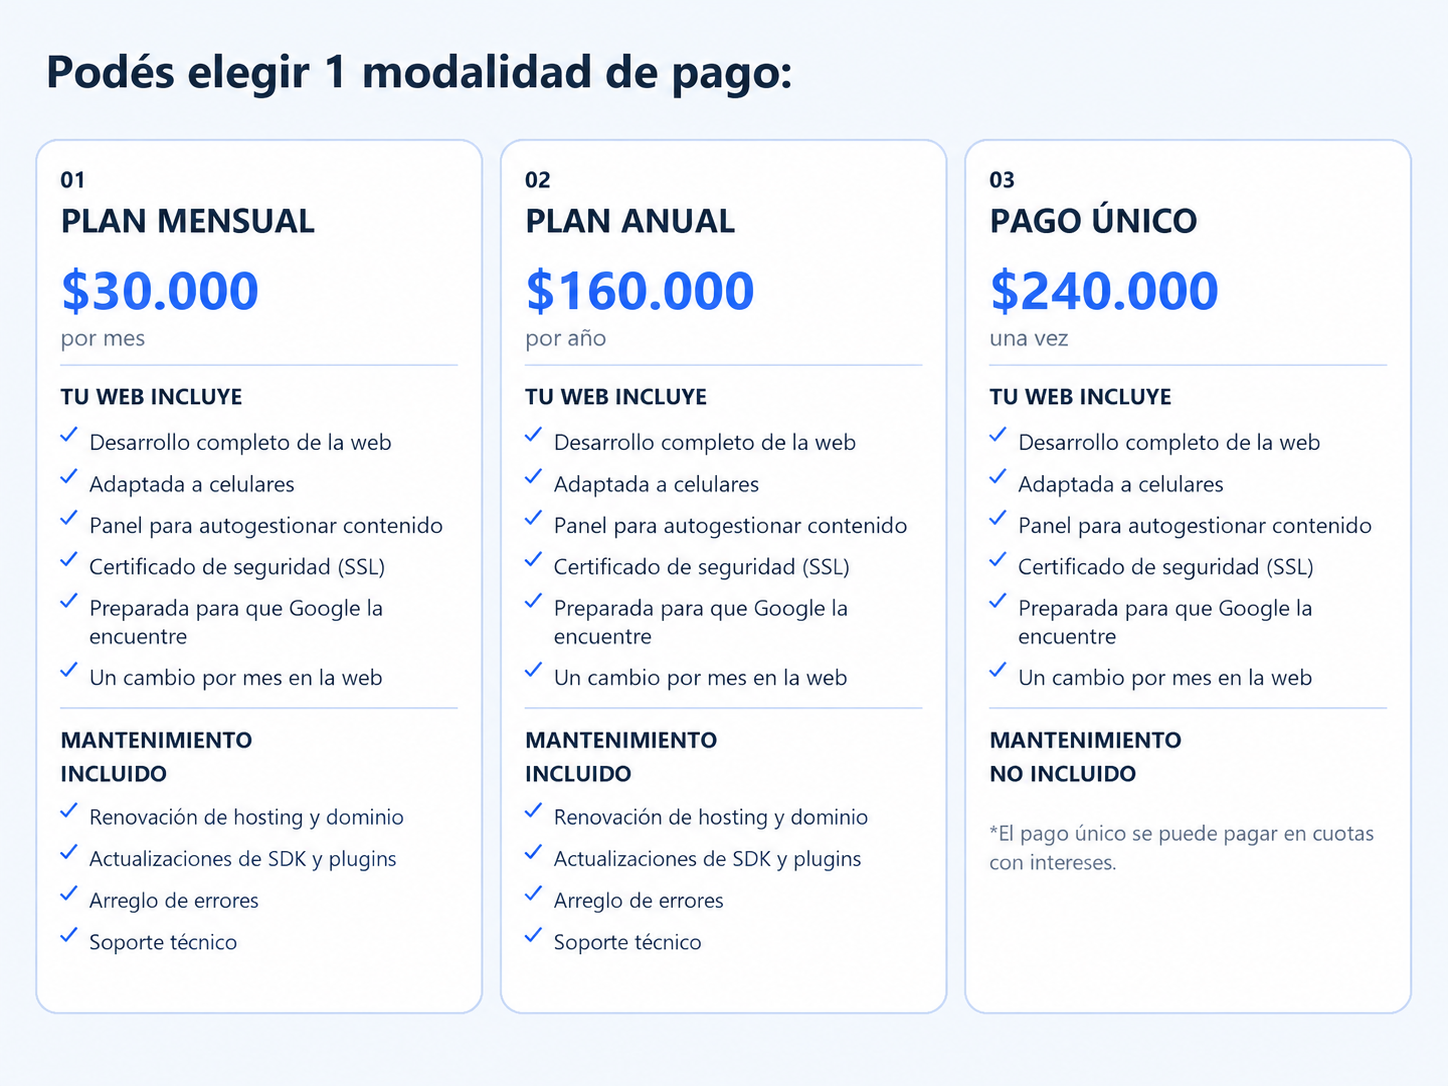
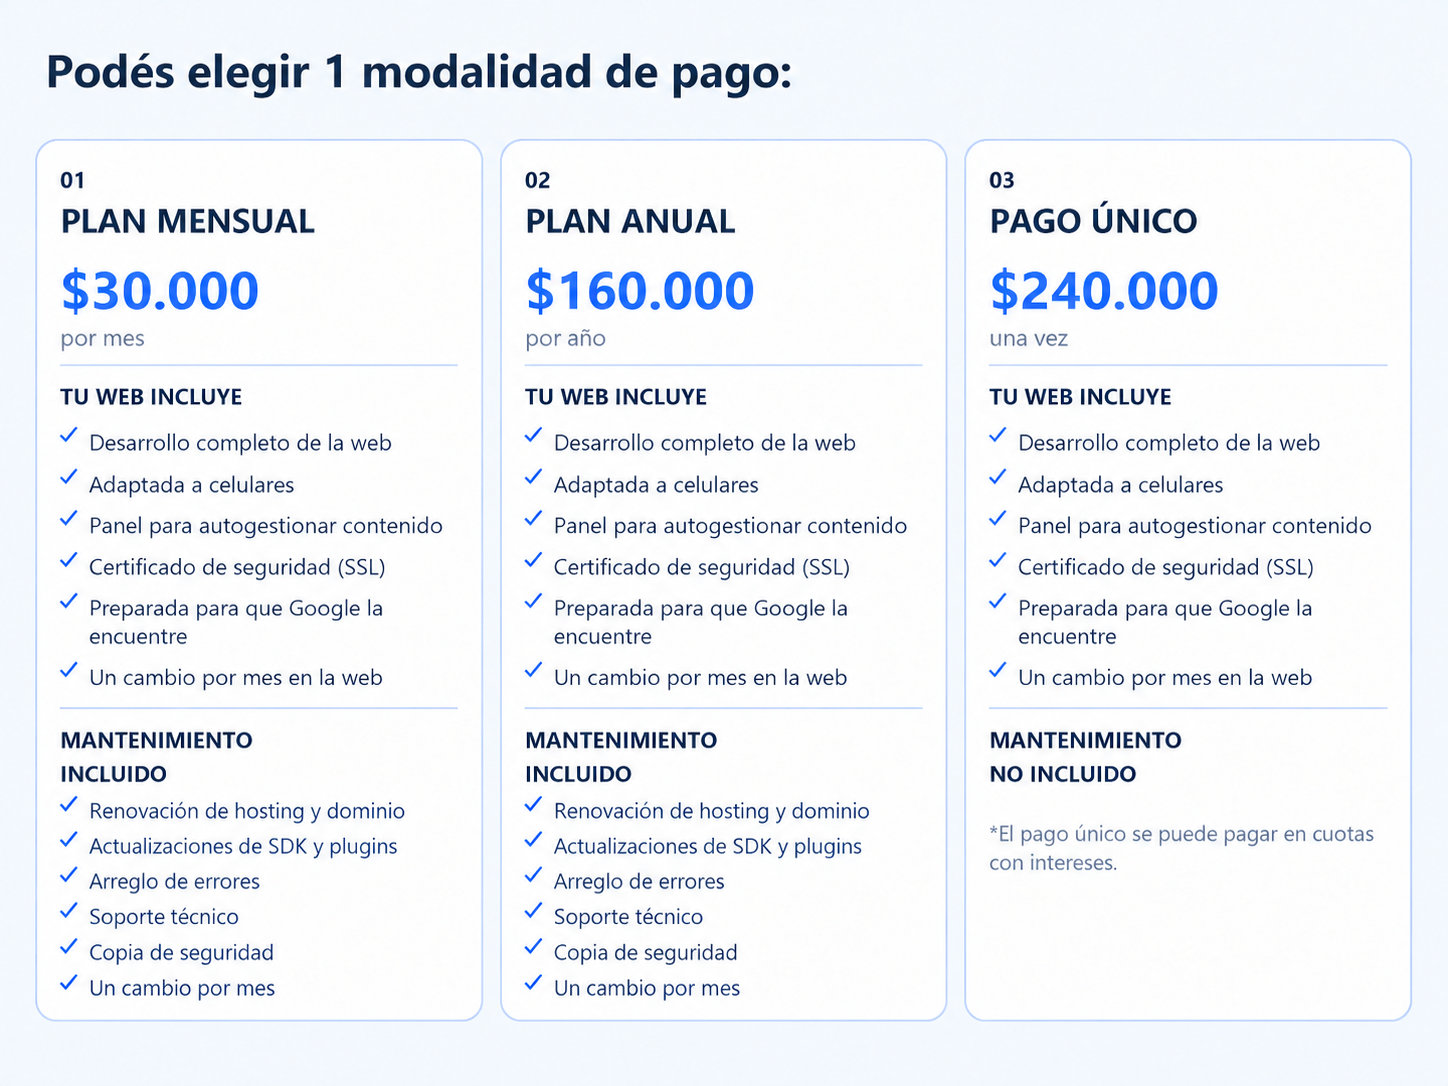
wabot: plan mensual de $40.000 para tienda/cursos/inmobiliaria
Nueva página /pago/mensual40/ con el link real de Mercado Pago
(https://mpago.la/2GhZD56), botón "Plan $40.000" en el panel (reemplaza al
de $30.000, ya sin vigencia) y su respuesta rápida correspondiente, con una
migración para actualizar la que Pablo ya tenga guardada. También corrige
mantenimiento_planes en textos.php, que se había quedado en los montos
viejos ($20.000/$30.000) tras el test de precios.

De paso, dos imágenes de modalidades (sitio profesional y tienda online)
llegaron actualizadas de Pablo con "Copia de seguridad" y "Un cambio por
mes" sumados al mantenimiento incluido, y quedan corregidas dos pruebas que
todavía esperaban las imágenes viejas por tipo en vez de la compartida.

diff --git a/pago/mensual40/index.html b/pago/mensual40/index.html
@@ -1,0 +1,84 @@
+<!DOCTYPE html>
+<html lang="es">
+<head>
+    <meta charset="UTF-8">
+    <meta name="viewport" content="width=device-width, initial-scale=1.0">
+    <meta name="robots" content="noindex, nofollow">
+    <title>Plan mensual de tienda online, cursos e inmobiliaria | GokyWebs</title>
+    <meta name="description" content="Tu tienda online, plataforma de cursos o inmobiliaria a medida, con hosting, dominio, soporte, mantenimiento técnico y un cambio por mes incluido, por $40.000 al mes.">
+    <link rel="icon" type="image/png" href="../../logo.png">
+    <link rel="preconnect" href="https://fonts.googleapis.com">
+    <link rel="preconnect" href="https://fonts.gstatic.com" crossorigin>
+    <link href="https://fonts.googleapis.com/css2?family=Inter:wght@400;500;600;700;800&display=swap" rel="stylesheet">
+    <link rel="stylesheet" href="../plan-card.css?v=20260925">
+</head>
+<body>
+    <header class="header">
+        <a class="brand" href="../../index.html">
+            <img src="../../logo.png" alt="GokyWebs">
+            <span>GokyWebs</span>
+        </a>
+        <a class="back-link" href="../../index.html">Volver al inicio</a>
+    </header>
+
+    <main>
+        <div class="plan-card">
+            <span class="plan-eyebrow">Plan mensual</span>
+            <h1 class="plan-title">Tienda online, cursos e inmobiliaria</h1>
+
+            <div class="plan-price-row">
+                <strong class="plan-price">$40.000</strong>
+                <span class="plan-period">por mes</span>
+            </div>
+
+            <section class="plan-section">
+                <h2>Tu web incluye</h2>
+                <ul class="plan-check-list">
+                    <li>Desarrollo completo de la web, a medida</li>
+                    <li>Panel para editar vos mismo los textos y las imágenes</li>
+                    <li>Carga de hasta 10 productos</li>
+                    <li>Adaptada a celular, tablet y computadora</li>
+                    <li>Preparada para que Google la encuentre</li>
+                    <li>Certificado de seguridad (SSL)</li>
+                    <li>Hosting y dominio .com.ar incluidos</li>
+                    <li>Un cambio por mes en la web</li>
+                </ul>
+            </section>
+
+            <section class="plan-section">
+                <h2>Mantenimiento incluido</h2>
+                <ul class="plan-check-list">
+                    <li>Actualizaciones de plugins, SDKs e integraciones</li>
+                    <li>Corrección de errores</li>
+                    <li>Compatibilidad con servicios de terceros</li>
+                    <li>Copias de seguridad periódicas</li>
+                    <li>Soporte técnico por WhatsApp</li>
+                </ul>
+            </section>
+
+            <div class="plan-cta">
+                <a class="subscribe-btn" href="https://mpago.la/2GhZD56" target="_blank" rel="noopener noreferrer">Suscribirme por $40.000 por mes</a>
+                <p class="mp-note">El pago se procesa de forma segura a través de Mercado Pago.</p>
+            </div>
+
+            <section class="plan-section">
+                <h2>Condiciones de la suscripción</h2>
+                <ul class="plan-check-list">
+                    <li>Sin pago inicial: arrancamos con el primer débito</li>
+                    <li>Débito automático mensual por Mercado Pago</li>
+                    <li>Cancelás cuando quieras, sin permanencia</li>
+                    <li>La web permanece publicada mientras el plan esté activo</li>
+                    <li>La mensualidad se actualiza una vez al año</li>
+                    <li>Pasados los 18 meses de plan activo, podés pedir la titularidad del código fuente</li>
+                </ul>
+            </section>
+
+            <p class="plan-note"><strong>Adicionales:</strong> $500 por producto adicional a los 10 incluidos, cuando lo cargamos nosotros (desde tu panel lo cargás vos sin costo). Un cambio extra al incluido cada mes y un rediseño completo también se cotizan aparte.</p>
+        </div>
+    </main>
+
+    <p class="support">Si tenés alguna duda, <a href="https://wa.me/5491125068578?text=Hola%20GokyWebs%2C%20tengo%20una%20consulta%20sobre%20el%20plan%20mensual%20de%20tienda%20online%2C%20cursos%20e%20inmobiliaria." target="_blank" rel="noopener noreferrer">escribinos por WhatsApp</a>.</p>
+
+    <footer class="footer">© 2026 GokyWebs · Plan mensual de tienda online, cursos e inmobiliaria</footer>
+</body>
+</html>

diff --git a/wabot/respuestas-rapidas.php b/wabot/respuestas-rapidas.php
@@ -35,7 +35,7 @@ function wabot_respuestas_rapidas_default() {
         ['ico' => '💳', 'titulo' => 'Pagos', 'items' => [
             "Te paso los datos para la seña. En cuanto se acredite arrancamos con el desarrollo:\n\nEDITAR DATOS DE PAGO",
             'Te mando el link de Mercado Pago para activar el plan mensual del sitio profesional ($20.000 por mes). Una vez realizado el pago queda activo el servicio: gokywebs.com/pago/mensual20',
-            'Te mando el link de Mercado Pago para activar el plan mensual de la tienda, los cursos o la inmobiliaria ($30.000 por mes). Una vez realizado el pago queda activo el servicio: gokywebs.com/pago/mensual30',
+            'Te mando el link de Mercado Pago para activar el plan mensual de la tienda, los cursos o la inmobiliaria ($40.000 por mes). Una vez realizado el pago queda activo el servicio: gokywebs.com/pago/mensual40',
             'Sí, podés pagar con tarjeta. Te paso el link de Mercado Pago y ahí elegís las cuotas.',
             '¡Recibido! Ya arrancamos con tu web. En unos días te muestro los primeros avances.',
             'La web ya está lista para publicarse. Antes de subirla queda abonar el saldo restante de EDITAR IMPORTE. Una vez acreditado el pago la dejamos online y funcionando.',
@@ -388,6 +388,27 @@ function wabot_respuestas_rapidas_links_mensuales_25sep($categorias) {
     return $categorias;
 }
 
+/**
+ * Test de precios (26-sep): tienda/cursos/inmobiliaria pasa de $30.000 a
+ * $40.000 por mes, con una página de suscripción nueva. Reemplaza por texto
+ * exacto, igual que wabot_respuestas_rapidas_links_mensuales_25sep; lo que
+ * Pablo haya editado a mano no se toca.
+ */
+function wabot_respuestas_rapidas_plan_otros_40k_26sep($categorias) {
+    $viejo = 'Te mando el link de Mercado Pago para activar el plan mensual de la tienda, los cursos o la inmobiliaria ($30.000 por mes). Una vez realizado el pago queda activo el servicio: gokywebs.com/pago/mensual30';
+    $nuevo = 'Te mando el link de Mercado Pago para activar el plan mensual de la tienda, los cursos o la inmobiliaria ($40.000 por mes). Una vez realizado el pago queda activo el servicio: gokywebs.com/pago/mensual40';
+    foreach ($categorias as &$categoria) {
+        if (mb_strtolower(trim((string)($categoria['titulo'] ?? ''))) !== 'pagos') continue;
+        $items = [];
+        foreach ((array)($categoria['items'] ?? []) as $texto) {
+            $items[] = (string)$texto === $viejo ? $nuevo : $texto;
+        }
+        $categoria['items'] = array_values(array_unique($items));
+    }
+    unset($categoria);
+    return $categorias;
+}
+
 function wabot_respuestas_rapidas_load() {
     wabot_ensure_dirs();
     $ruta = WABOT_DATA . '/respuestas-rapidas.json';
@@ -395,11 +416,11 @@ function wabot_respuestas_rapidas_load() {
     $leido = json_decode((string)@file_get_contents($ruta), true);
     $normalizado = wabot_respuestas_rapidas_normalizar($leido);
     if ($normalizado === null) return wabot_respuestas_rapidas_default();
-    $migrado = wabot_respuestas_rapidas_links_mensuales_25sep(wabot_respuestas_rapidas_precios_al_dia(wabot_respuestas_rapidas_textos_21sep(
+    $migrado = wabot_respuestas_rapidas_plan_otros_40k_26sep(wabot_respuestas_rapidas_links_mensuales_25sep(wabot_respuestas_rapidas_precios_al_dia(wabot_respuestas_rapidas_textos_21sep(
         wabot_respuestas_rapidas_planes_19sep(
             wabot_respuestas_rapidas_completar_precios(wabot_respuestas_rapidas_migrar_legacy($normalizado))
         )
-    )));
+    ))));
     if ($migrado !== $normalizado) {
         $json = json_encode($migrado, JSON_UNESCAPED_UNICODE | JSON_PRETTY_PRINT);
         if (is_string($json)) wabot_json_guardar_atomico($ruta, $json);

diff --git a/wabot/admin.php b/wabot/admin.php
@@ -2197,11 +2197,12 @@ function burbujaCita(t, chat) {
                         <?php /* El formulario con el código de ESTA charla, para mandarlo a mano (21-sep). */ ?>
                         <button type="button" class="sec form-copiar" data-tel="<?= $e($convClave) ?>"
                             title="Copia el link del formulario con el código de esta conversación, para mandárselo vos">Copiar form</button>
-                        <?php /* Los dos links de pago del plan mensual, listos para mandar (25-sep). */ ?>
+                        <?php /* Los dos links de pago del plan mensual, listos para mandar (25-sep;
+                               tienda/cursos/inmobiliaria pasó a $40.000 el 26-sep con el test de precios). */ ?>
                         <button type="button" class="sec" id="btnPlan20"
                             title="Escribe el mensaje con el link de pago del plan mensual del sitio profesional">Plan $20.000</button>
-                        <button type="button" class="sec" id="btnPlan30"
-                            title="Escribe el mensaje con el link de pago del plan mensual de tienda, cursos e inmobiliaria">Plan $30.000</button>
+                        <button type="button" class="sec" id="btnPlan40"
+                            title="Escribe el mensaje con el link de pago del plan mensual de tienda, cursos e inmobiliaria">Plan $40.000</button>
                         <?php if ((int)$conv['pausado_hasta'] > time()): ?>
                         <form method="post"><input type="hidden" name="accion" value="conv_reanudar"><input type="hidden" name="tel" value="<?= $e($convClave) ?>">
                             <button class="sec">Reanudar bot</button></form>
@@ -2981,14 +2982,14 @@ function burbujaCita(t, chat) {
             txt.setSelectionRange(cursor, cursor);
         }
 
-        /* Los dos botones de "Plan $20.000" / "Plan $30.000" del encabezado:
+        /* Los dos botones de "Plan $20.000" / "Plan $40.000" del encabezado:
          * escriben directo el mensaje con el link de pago, sin pasar por el
          * buscador de respuestas rápidas. */
         document.getElementById('btnPlan20')?.addEventListener('click', () => {
             rrInsertar('Te mando el link de Mercado Pago para activar el plan mensual del sitio profesional ($20.000 por mes). Una vez realizado el pago queda activo el servicio: gokywebs.com/pago/mensual20');
         });
-        document.getElementById('btnPlan30')?.addEventListener('click', () => {
-            rrInsertar('Te mando el link de Mercado Pago para activar el plan mensual de la tienda, los cursos o la inmobiliaria ($30.000 por mes). Una vez realizado el pago queda activo el servicio: gokywebs.com/pago/mensual30');
+        document.getElementById('btnPlan40')?.addEventListener('click', () => {
+            rrInsertar('Te mando el link de Mercado Pago para activar el plan mensual de la tienda, los cursos o la inmobiliaria ($40.000 por mes). Una vez realizado el pago queda activo el servicio: gokywebs.com/pago/mensual40');
         });
 
         function rrElegir(indice) {

diff --git a/wabot/test-precios.php b/wabot/test-precios.php
@@ -104,8 +104,8 @@ caso('pasa entero por el punto único de salida: propuesta, imagen y oferta',
 caso('y en ninguno de los dos aparece la línea vieja de "si te cierra"',
     preg_match('/si te cierra|si va por ah|si te gusta la idea/iu', implode(' ', $r)) === 0);
 
-foreach (['ecommerce' => ['una tienda online completa', 'tienda-online-tres-columnas-4x3.png'], 'inmobiliaria' => ['una web inmobiliaria completa', 'web-inmobiliaria-tres-columnas-4x3.png'],
-          'elearning' => ['una plataforma de cursos completa', 'plataforma-de-cursos-tres-columnas-4x3.png']] as $tipo => $par) {
+foreach (['ecommerce' => ['una tienda online completa', 'tienda-online-tres-columnas-4x3.png'], 'inmobiliaria' => ['una web inmobiliaria completa', 'tienda-online-tres-columnas-4x3.png'],
+          'elearning' => ['una plataforma de cursos completa', 'tienda-online-tres-columnas-4x3.png']] as $tipo => $par) {
     [$arranque, $archivo] = $par;
     $c = conv_nueva('5491177770003TEST');
     $r = wabot_pitch($tipo, $c, $cfg);

diff --git a/wabot/textos.php b/wabot/textos.php
@@ -250,13 +250,14 @@ function wabot_textos_default() {
         'web_propia' => "Si la querés en tu propio hosting, está el pago único{precio_web_propia}: es solo la página, y cuando abonás el total el código queda tuyo. No incluye hosting ni dominio, que corren por tu cuenta.\nSi querés, le sumás el mantenimiento por {mantenimiento_mes}: actualizaciones, corrección de errores y soporte.",
     ],
     'leer_imagenes' => true,
+    // Montos del test de precios (26-sep): antes $20.000 / $30.000.
     'mantenimiento_planes' => [
         'landing' => [
-            'precio' => '$20.000',
+            'precio' => '$30.000',
             'link' => 'gokywebs.com/planmensual/sitioprofesional',
         ],
         'otros' => [
-            'precio' => '$30.000',
+            'precio' => '$40.000',
             'link' => 'gokywebs.com/planmensual/tienda',
         ],
     ],

diff --git a/wabot/test-flujo-final.php b/wabot/test-flujo-final.php
@@ -123,8 +123,8 @@ caso('y con el sí, el formulario', tiene_form(turno('si', $ca, $cfg)));
 
 $esperados = [
     'landing' => ['un sitio profesional completo', 'sitio-profesional-tres-columnas-4x3.png'],
-    'inmobiliaria' => ['una web inmobiliaria completa', 'web-inmobiliaria-tres-columnas-4x3.png'],
-    'elearning' => ['una plataforma de cursos completa', 'plataforma-de-cursos-tres-columnas-4x3.png'],
+    'inmobiliaria' => ['una web inmobiliaria completa', 'tienda-online-tres-columnas-4x3.png'],
+    'elearning' => ['una plataforma de cursos completa', 'tienda-online-tres-columnas-4x3.png'],
 ];
 foreach ($esperados as $tipo => [$frase, $archivo]) {
     $ct = conv_nueva('549110000' . strtoupper($tipo) . 'TEST', ['fase' => 'menu']);
